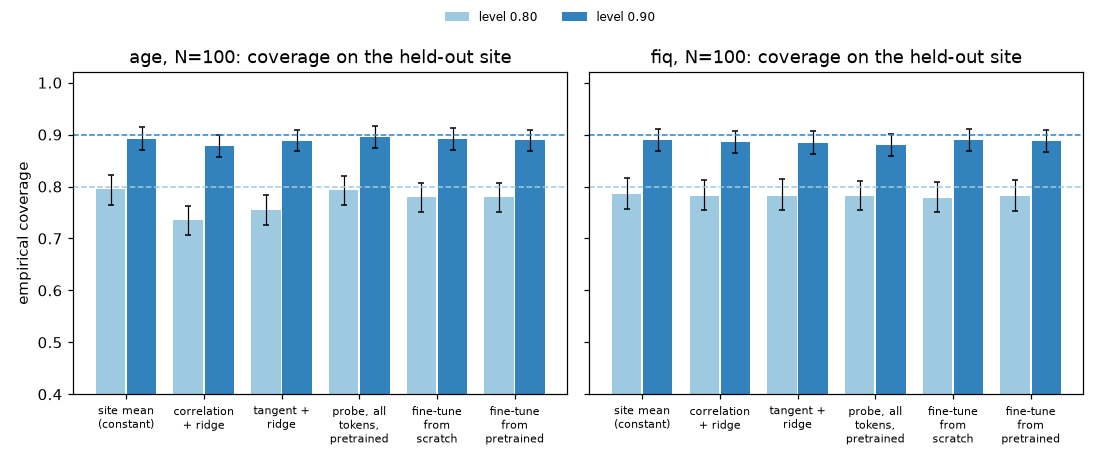
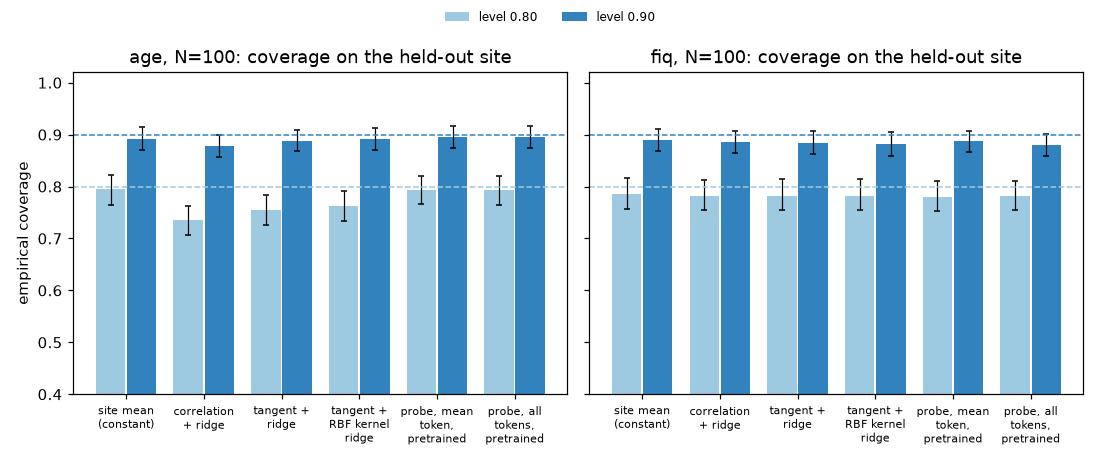
Report the fine-tunes apart and keep them off the figure

diff --git a/tests/test_scripts.py b/tests/test_scripts.py
@@ -20,6 +20,8 @@ ARMS = (
     "probe_flat",
     "ft_scratch",
     "ft_pre",
+    "ft_pre_trans",
+    "ft_trans",
 )
 SITE_CSV = (
     "site,n,age_mean,age_sd,fiq_mean,fiq_sd,share_dx1,share_sex1,frames_min,"
@@ -124,7 +126,14 @@ def test_summarise_report_and_figures_scripts_run_end_to_end(tmp_path, monkeypat
     ):
         assert (out / name).exists(), name
     run_main(load_script("report"), monkeypatch, "--results", str(out))
-    assert "pooled R2" in (out / "tables.md").read_text()
+    text = (out / "tables.md").read_text()
+    assert "pooled R2" in text
+    assert "conformal intervals of the fine-tunes" in text
+    head = "### age: 90 percent conformal intervals, pooled coverage (width)"
+    assert "fine-tune" not in text.split(head)[1].split("###")[0]
+    assert "fine-tune, transductive (own rate)" in text
+    diffs = json.loads((out / "summary.json").read_text())["loso"]["diffs"]["age"]
+    assert {"ft_trans - ft_pre", "ft_trans - ft_pre_trans"} <= set(diffs)
     run_main(load_script("figures"), monkeypatch, "--results", str(out))
     for name in ("fig_learning_curves.png", "fig_coverage.png", "fig_pretrain.png"):
         assert 1000 < (out / name).stat().st_size < 300_000

diff --git a/scripts/report.py b/scripts/report.py
@@ -9,6 +9,7 @@ from pathlib import Path
 
 from connpre.report import (
     BASELINES,
+    FINETUNES,
     LONG_ARMS,
     NEURAL,
     TRANSDUCTIVE,
@@ -41,6 +42,9 @@ def main():
 
     add("Cohort by site", cohort_table(res / "site_table.csv"))
     arms = [*BASELINES, *NEURAL]
+    no_finetune = [
+        a for a in (*BASELINES, *NEURAL, *TRANSDUCTIVE) if a not in FINETUNES
+    ]
     for target in ("age", "fiq"):
         add(
             f"{target}: pooled R2 by label count (leave-one-site-out)",
@@ -66,7 +70,12 @@ def main():
         )
         add(
             f"{target}: 90 percent conformal intervals, pooled coverage (width)",
-            coverage_table(loso, target),
+            coverage_table(loso, target, arms=no_finetune),
+        )
+        add(
+            f"{target}: 90 percent conformal intervals of the fine-tunes, "
+            "pooled coverage (width)",
+            coverage_table(loso, target, arms=FINETUNES),
         )
     add("Paired differences, pooled R2", diff_table(loso, "pooled_r2"))
     add("Paired differences, macro R2", diff_table(loso, "macro_r2"))

diff --git a/src/connpre/report.py b/src/connpre/report.py
@@ -17,7 +17,8 @@ NEURAL = (
     "ft_scratch",
     "ft_pre",
 )
-TRANSDUCTIVE = ("probe_mean_trans", "probe_flat_trans", "ft_pre_trans")
+TRANSDUCTIVE = ("probe_mean_trans", "probe_flat_trans", "ft_pre_trans", "ft_trans")
+FINETUNES = ("ft_scratch", "ft_pre", "ft_pre_trans", "ft_trans")
 ARM_LABEL = {
     "site_const": "site mean (constant)",
     "site_oracle": "site mean of the held-out site (oracle)",
@@ -33,7 +34,8 @@ ARM_LABEL = {
     "ft_pre": "fine-tune from pretrained",
     "probe_mean_trans": "probe, mean token, transductive",
     "probe_flat_trans": "probe, all tokens, transductive",
-    "ft_pre_trans": "fine-tune, transductive",
+    "ft_pre_trans": "fine-tune, transductive (pretrained rate)",
+    "ft_trans": "fine-tune, transductive (own rate)",
     "ft_scratch_long": "fine-tune from scratch, 1000 steps",
     "ft_trans_long": "fine-tune from transductive encoder, 1000 steps",
 }

diff --git a/src/connpre/summary.py b/src/connpre/summary.py
@@ -20,6 +20,8 @@ PAIRS = (
     ("probe_flat", "probe_flat_rand"),
     ("probe_mean", "probe_mean_rand"),
     ("ft_pre_trans", "ft_pre"),
+    ("ft_trans", "ft_pre"),
+    ("ft_trans", "ft_pre_trans"),
     ("probe_flat_trans", "probe_flat"),
     ("tangent_ridge", "corr_ridge"),
     ("tangent_krr", "tangent_ridge"),
@@ -27,6 +29,7 @@ PAIRS = (
     ("ft_trans_long", "tangent_ridge"),
     ("ft_scratch_long", "ft_scratch"),
     ("ft_trans_long", "ft_pre_trans"),
+    ("ft_trans_long", "ft_trans"),
 )
 
 

diff --git a/scripts/figures.py b/scripts/figures.py
@@ -76,9 +76,9 @@ def coverage_figure(summary: dict, path: Path, size: str = "100") -> None:
         "site_const",
         "corr_ridge",
         "tangent_ridge",
+        "tangent_krr",
+        "probe_mean",
         "probe_flat",
-        "ft_scratch",
-        "ft_pre",
     ]
     fig, axes = plt.subplots(1, 2, figsize=(10, 4.2), sharey=True)
     for ax, target in zip(axes, ("age", "fiq"), strict=True):

diff --git a/results/tables.md b/results/tables.md
@@ -73,7 +73,7 @@
 |---|---|---|---|
 | probe, mean token, transductive | -0.11 [-0.14, -0.10] | -0.10 [-0.11, -0.09] | -0.09 [-0.10, -0.07] |
 | probe, all tokens, transductive | -0.11 [-0.13, -0.09] | -0.09 [-0.11, -0.08] | -0.08 [-0.10, -0.07] |
-| fine-tune, transductive | -0.19 [-0.22, -0.17] | -0.15 [-0.18, -0.14] | -0.14 [-0.16, -0.12] |
+| fine-tune, transductive (pretrained rate) | -0.19 [-0.22, -0.17] | -0.15 [-0.18, -0.14] | -0.14 [-0.16, -0.12] |
 | fine-tune from pretrained | -0.09 [-0.11, -0.08] | -0.09 [-0.11, -0.08] | -0.10 [-0.12, -0.09] |
 
 ### age: 90 percent conformal intervals, pooled coverage (width)
@@ -88,11 +88,16 @@
 | probe, all tokens, random encoder | 0.89 (22.9) | 0.89 (22.5) | 0.89 (22.3) | - |
 | probe, mean token, pretrained | 0.89 (22.6) | 0.90 (22.7) | 0.89 (22.3) | - |
 | probe, all tokens, pretrained | 0.89 (22.6) | 0.90 (22.6) | 0.89 (22.3) | - |
-| fine-tune from scratch | 0.89 (22.5) | 0.89 (22.4) | 0.89 (22.4) | - |
-| fine-tune from pretrained | 0.89 (22.7) | 0.89 (22.4) | 0.89 (22.3) | - |
 | probe, mean token, transductive | 0.89 (23.0) | 0.89 (22.4) | 0.89 (22.3) | - |
 | probe, all tokens, transductive | 0.89 (22.8) | 0.89 (22.4) | 0.89 (22.3) | - |
-| fine-tune, transductive | 0.89 (22.8) | 0.89 (22.5) | 0.89 (22.3) | - |
+
+### age: 90 percent conformal intervals of the fine-tunes, pooled coverage (width)
+
+| arm | N=50 | N=100 | N=300 | N=all |
+|---|---|---|---|---|
+| fine-tune from scratch | 0.89 (22.5) | 0.89 (22.4) | 0.89 (22.4) | - |
+| fine-tune from pretrained | 0.89 (22.7) | 0.89 (22.4) | 0.89 (22.3) | - |
+| fine-tune, transductive (pretrained rate) | 0.89 (22.8) | 0.89 (22.5) | 0.89 (22.3) | - |
 
 ### fiq: pooled R2 by label count (leave-one-site-out)
 
@@ -146,7 +151,7 @@
 |---|---|---|---|
 | probe, mean token, transductive | -0.07 [-0.10, -0.05] | -0.05 [-0.07, -0.04] | -0.03 [-0.04, -0.02] |
 | probe, all tokens, transductive | -0.08 [-0.11, -0.06] | -0.06 [-0.08, -0.04] | -0.02 [-0.04, -0.02] |
-| fine-tune, transductive | -0.08 [-0.11, -0.06] | -0.05 [-0.08, -0.04] | -0.03 [-0.05, -0.02] |
+| fine-tune, transductive (pretrained rate) | -0.08 [-0.11, -0.06] | -0.05 [-0.08, -0.04] | -0.03 [-0.05, -0.02] |
 | fine-tune from pretrained | -0.05 [-0.08, -0.04] | -0.04 [-0.06, -0.03] | -0.03 [-0.04, -0.02] |
 
 ### fiq: 90 percent conformal intervals, pooled coverage (width)
@@ -161,11 +166,16 @@
 | probe, all tokens, random encoder | 0.89 (48.6) | 0.89 (47.9) | 0.89 (48.1) | - |
 | probe, mean token, pretrained | 0.89 (48.8) | 0.89 (47.9) | 0.89 (48.0) | - |
 | probe, all tokens, pretrained | 0.88 (49.0) | 0.88 (47.7) | 0.88 (47.8) | - |
-| fine-tune from scratch | 0.89 (48.2) | 0.89 (48.4) | 0.89 (47.9) | - |
-| fine-tune from pretrained | 0.88 (48.1) | 0.89 (48.4) | 0.89 (47.9) | - |
 | probe, mean token, transductive | 0.88 (48.7) | 0.88 (47.8) | 0.89 (48.1) | - |
 | probe, all tokens, transductive | 0.88 (49.0) | 0.88 (47.9) | 0.89 (47.9) | - |
-| fine-tune, transductive | 0.88 (48.5) | 0.89 (48.6) | 0.89 (47.9) | - |
+
+### fiq: 90 percent conformal intervals of the fine-tunes, pooled coverage (width)
+
+| arm | N=50 | N=100 | N=300 | N=all |
+|---|---|---|---|---|
+| fine-tune from scratch | 0.89 (48.2) | 0.89 (48.4) | 0.89 (47.9) | - |
+| fine-tune from pretrained | 0.88 (48.1) | 0.89 (48.4) | 0.89 (47.9) | - |
+| fine-tune, transductive (pretrained rate) | 0.88 (48.5) | 0.89 (48.6) | 0.89 (47.9) | - |
 
 ### Paired differences, pooled R2
 
@@ -173,7 +183,7 @@
 |---|---|---|---|---|---|---|
 | fine-tune from pretrained minus fine-tune from scratch | 0.02 [0.01, 0.03] | 0.01 [-0.00, 0.02] | -0.02 [-0.02, -0.01] | -0.01 [-0.02, -0.00] | -0.00 [-0.01, 0.00] | -0.00 [-0.01, 0.00] |
 | fine-tune from pretrained minus tangent + ridge | -0.10 [-0.13, -0.09] | -0.19 [-0.22, -0.16] | -0.38 [-0.41, -0.35] | -0.03 [-0.04, -0.01] | -0.02 [-0.03, -0.01] | -0.05 [-0.07, -0.03] |
-| fine-tune, transductive minus fine-tune from pretrained | -0.10 [-0.11, -0.08] | -0.06 [-0.07, -0.05] | -0.04 [-0.04, -0.03] | -0.02 [-0.03, -0.01] | -0.01 [-0.02, -0.01] | -0.00 [-0.01, 0.00] |
+| fine-tune, transductive (pretrained rate) minus fine-tune from pretrained | -0.10 [-0.11, -0.08] | -0.06 [-0.07, -0.05] | -0.04 [-0.04, -0.03] | -0.02 [-0.03, -0.01] | -0.01 [-0.02, -0.01] | -0.00 [-0.01, 0.00] |
 | fine-tune from scratch minus tangent + ridge | -0.12 [-0.14, -0.11] | -0.20 [-0.22, -0.18] | -0.36 [-0.40, -0.33] | -0.02 [-0.03, -0.01] | -0.02 [-0.03, -0.01] | -0.04 [-0.06, -0.02] |
 | probe, all tokens, pretrained minus probe, all tokens, random encoder | -0.01 [-0.02, 0.00] | -0.02 [-0.03, -0.01] | -0.00 [-0.01, 0.00] | -0.01 [-0.03, -0.00] | -0.02 [-0.03, -0.01] | -0.01 [-0.01, -0.00] |
 | probe, all tokens, pretrained minus tangent + ridge | -0.09 [-0.12, -0.07] | -0.18 [-0.22, -0.15] | -0.34 [-0.37, -0.31] | -0.03 [-0.05, -0.01] | -0.04 [-0.06, -0.02] | -0.05 [-0.07, -0.03] |
@@ -189,7 +199,7 @@
 |---|---|---|---|---|---|---|
 | fine-tune from pretrained minus fine-tune from scratch | 0.09 [0.06, 0.15] | 0.04 [0.02, 0.07] | -0.07 [-0.10, -0.05] | -0.01 [-0.02, 0.00] | -0.00 [-0.01, 0.01] | -0.00 [-0.01, 0.00] |
 | fine-tune from pretrained minus tangent + ridge | -0.27 [-0.36, -0.21] | -0.50 [-0.63, -0.41] | -0.91 [-1.13, -0.78] | -0.03 [-0.05, -0.02] | -0.01 [-0.03, 0.01] | -0.04 [-0.07, -0.01] |
-| fine-tune, transductive minus fine-tune from pretrained | -0.24 [-0.32, -0.19] | -0.15 [-0.21, -0.12] | -0.04 [-0.08, -0.01] | -0.03 [-0.05, -0.02] | -0.03 [-0.05, -0.01] | -0.01 [-0.02, 0.00] |
+| fine-tune, transductive (pretrained rate) minus fine-tune from pretrained | -0.24 [-0.32, -0.19] | -0.15 [-0.21, -0.12] | -0.04 [-0.08, -0.01] | -0.03 [-0.05, -0.02] | -0.03 [-0.05, -0.01] | -0.01 [-0.02, 0.00] |
 | fine-tune from scratch minus tangent + ridge | -0.37 [-0.47, -0.30] | -0.54 [-0.69, -0.45] | -0.84 [-1.05, -0.72] | -0.02 [-0.04, -0.01] | -0.01 [-0.03, 0.01] | -0.04 [-0.07, -0.01] |
 | probe, all tokens, pretrained minus probe, all tokens, random encoder | 0.00 [-0.05, 0.06] | -0.04 [-0.08, 0.00] | -0.00 [-0.01, 0.01] | -0.03 [-0.06, -0.01] | -0.03 [-0.05, -0.02] | -0.01 [-0.02, -0.00] |
 | probe, all tokens, pretrained minus tangent + ridge | -0.28 [-0.38, -0.20] | -0.55 [-0.70, -0.46] | -0.80 [-0.99, -0.69] | -0.05 [-0.08, -0.03] | -0.04 [-0.06, -0.01] | -0.04 [-0.08, -0.01] |
@@ -205,10 +215,10 @@
 |---|---|---|---|---|---|---|
 | fine-tune from pretrained beats fine-tune from scratch | 6/8 | 5/8 | 3/8 | 3/8 | 4/8 | 3/8 |
 | fine-tune from pretrained beats tangent + ridge | 0/8 | 0/8 | 0/8 | 2/8 | 2/8 | 1/8 |
-| fine-tune, transductive beats fine-tune from pretrained | 1/8 | 2/8 | 3/8 | 2/8 | 2/8 | 3/8 |
+| fine-tune, transductive (pretrained rate) beats fine-tune from pretrained | 1/8 | 2/8 | 3/8 | 2/8 | 2/8 | 3/8 |
 | fine-tune from scratch beats tangent + ridge | 0/8 | 0/8 | 0/8 | 2/8 | 1/8 | 1/8 |
 | fine-tune from scratch, 1000 steps beats fine-tune from scratch | - | - | 2/8 | - | - | - |
-| fine-tune from transductive encoder, 1000 steps beats fine-tune, transductive | - | - | 2/8 | - | - | - |
+| fine-tune from transductive encoder, 1000 steps beats fine-tune, transductive (pretrained rate) | - | - | 2/8 | - | - | - |
 | fine-tune from transductive encoder, 1000 steps beats fine-tune from scratch, 1000 steps | - | - | 3/8 | - | - | - |
 | fine-tune from transductive encoder, 1000 steps beats tangent + ridge | - | - | 0/8 | - | - | - |
 | probe, all tokens, pretrained beats probe, all tokens, random encoder | 2/8 | 2/8 | 3/8 | 3/8 | 2/8 | 3/8 |
@@ -226,7 +236,7 @@
 | site mean (constant) | -0.05 [-0.06, -0.05] | -0.90 [-1.20, -0.76] | 5.51 [5.16, 5.90] | 0.00 [0.00, 0.00] |
 | tangent + ridge | 0.28 [0.24, 0.31] | -0.11 [-0.28, -0.02] | 4.42 [4.13, 4.73] | 0.57 [0.51, 0.62] |
 | fine-tune from scratch | -0.08 [-0.10, -0.07] | -0.95 [-1.26, -0.80] | 5.56 [5.21, 5.95] | -0.03 [-0.09, 0.02] |
-| fine-tune, transductive | -0.14 [-0.16, -0.12] | -1.06 [-1.39, -0.90] | 5.67 [5.32, 6.08] | -0.05 [-0.10, 0.01] |
+| fine-tune, transductive (pretrained rate) | -0.14 [-0.16, -0.12] | -1.06 [-1.39, -0.90] | 5.67 [5.32, 6.08] | -0.05 [-0.10, 0.01] |
 | fine-tune from scratch, 1000 steps | -0.26 [-0.31, -0.23] | -1.57 [-2.09, -1.33] | 5.97 [5.60, 6.38] | -0.07 [-0.14, -0.00] |
 | fine-tune from transductive encoder, 1000 steps | -0.38 [-0.44, -0.33] | -2.54 [-3.49, -2.10] | 6.30 [5.93, 6.70] | -0.06 [-0.12, 0.01] |
 
@@ -235,7 +245,7 @@
 | difference (age) | pooled R2 | macro R2 | pooled MAE | macro Spearman |
 |---|---|---|---|---|
 | fine-tune from scratch, 1000 steps minus fine-tune from scratch | -0.18 [-0.21, -0.16] | -0.62 [-0.85, -0.51] | 0.41 [0.35, 0.47] | -0.04 [-0.10, 0.03] |
-| fine-tune from transductive encoder, 1000 steps minus fine-tune, transductive | -0.25 [-0.29, -0.21] | -1.48 [-2.17, -1.14] | 0.63 [0.54, 0.72] | -0.02 [-0.07, 0.05] |
+| fine-tune from transductive encoder, 1000 steps minus fine-tune, transductive (pretrained rate) | -0.25 [-0.29, -0.21] | -1.48 [-2.17, -1.14] | 0.63 [0.54, 0.72] | -0.02 [-0.07, 0.05] |
 | fine-tune from transductive encoder, 1000 steps minus fine-tune from scratch, 1000 steps | -0.12 [-0.15, -0.09] | -0.96 [-1.44, -0.71] | 0.33 [0.25, 0.41] | 0.01 [-0.05, 0.07] |
 | fine-tune from transductive encoder, 1000 steps minus tangent + ridge | -0.66 [-0.73, -0.60] | -2.43 [-3.29, -2.04] | 1.88 [1.69, 2.06] | -0.63 [-0.70, -0.54] |
 
